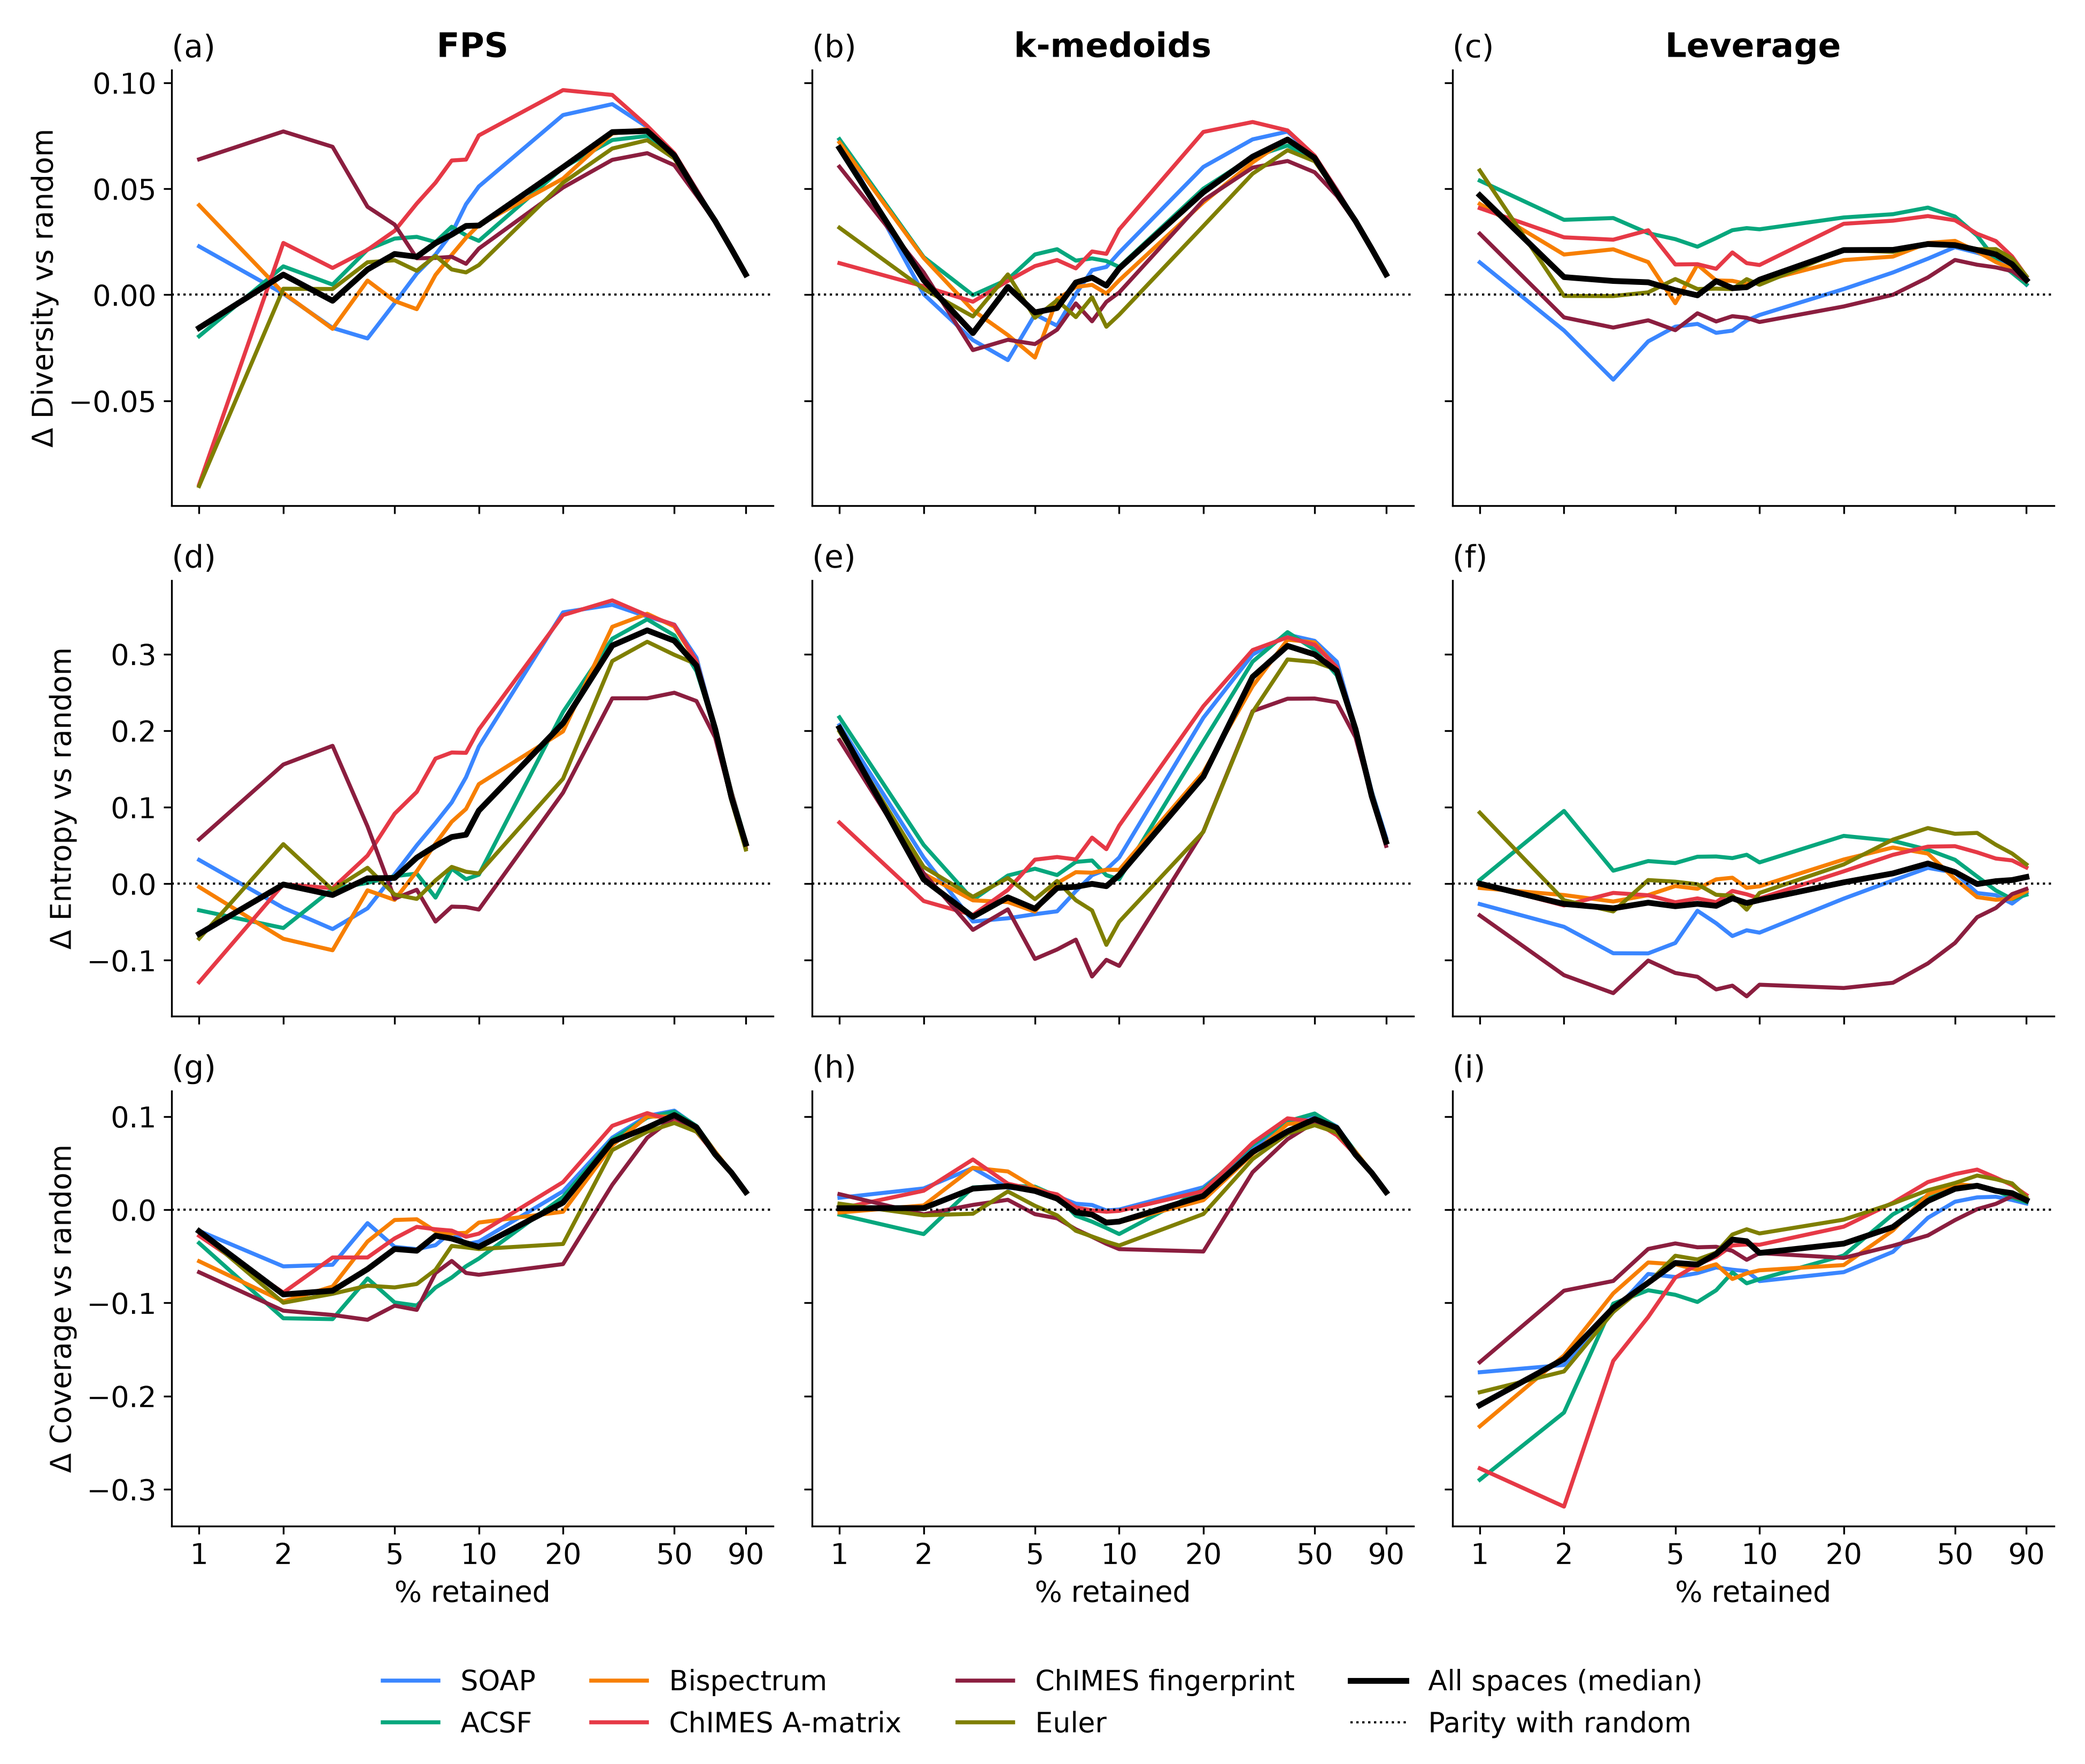
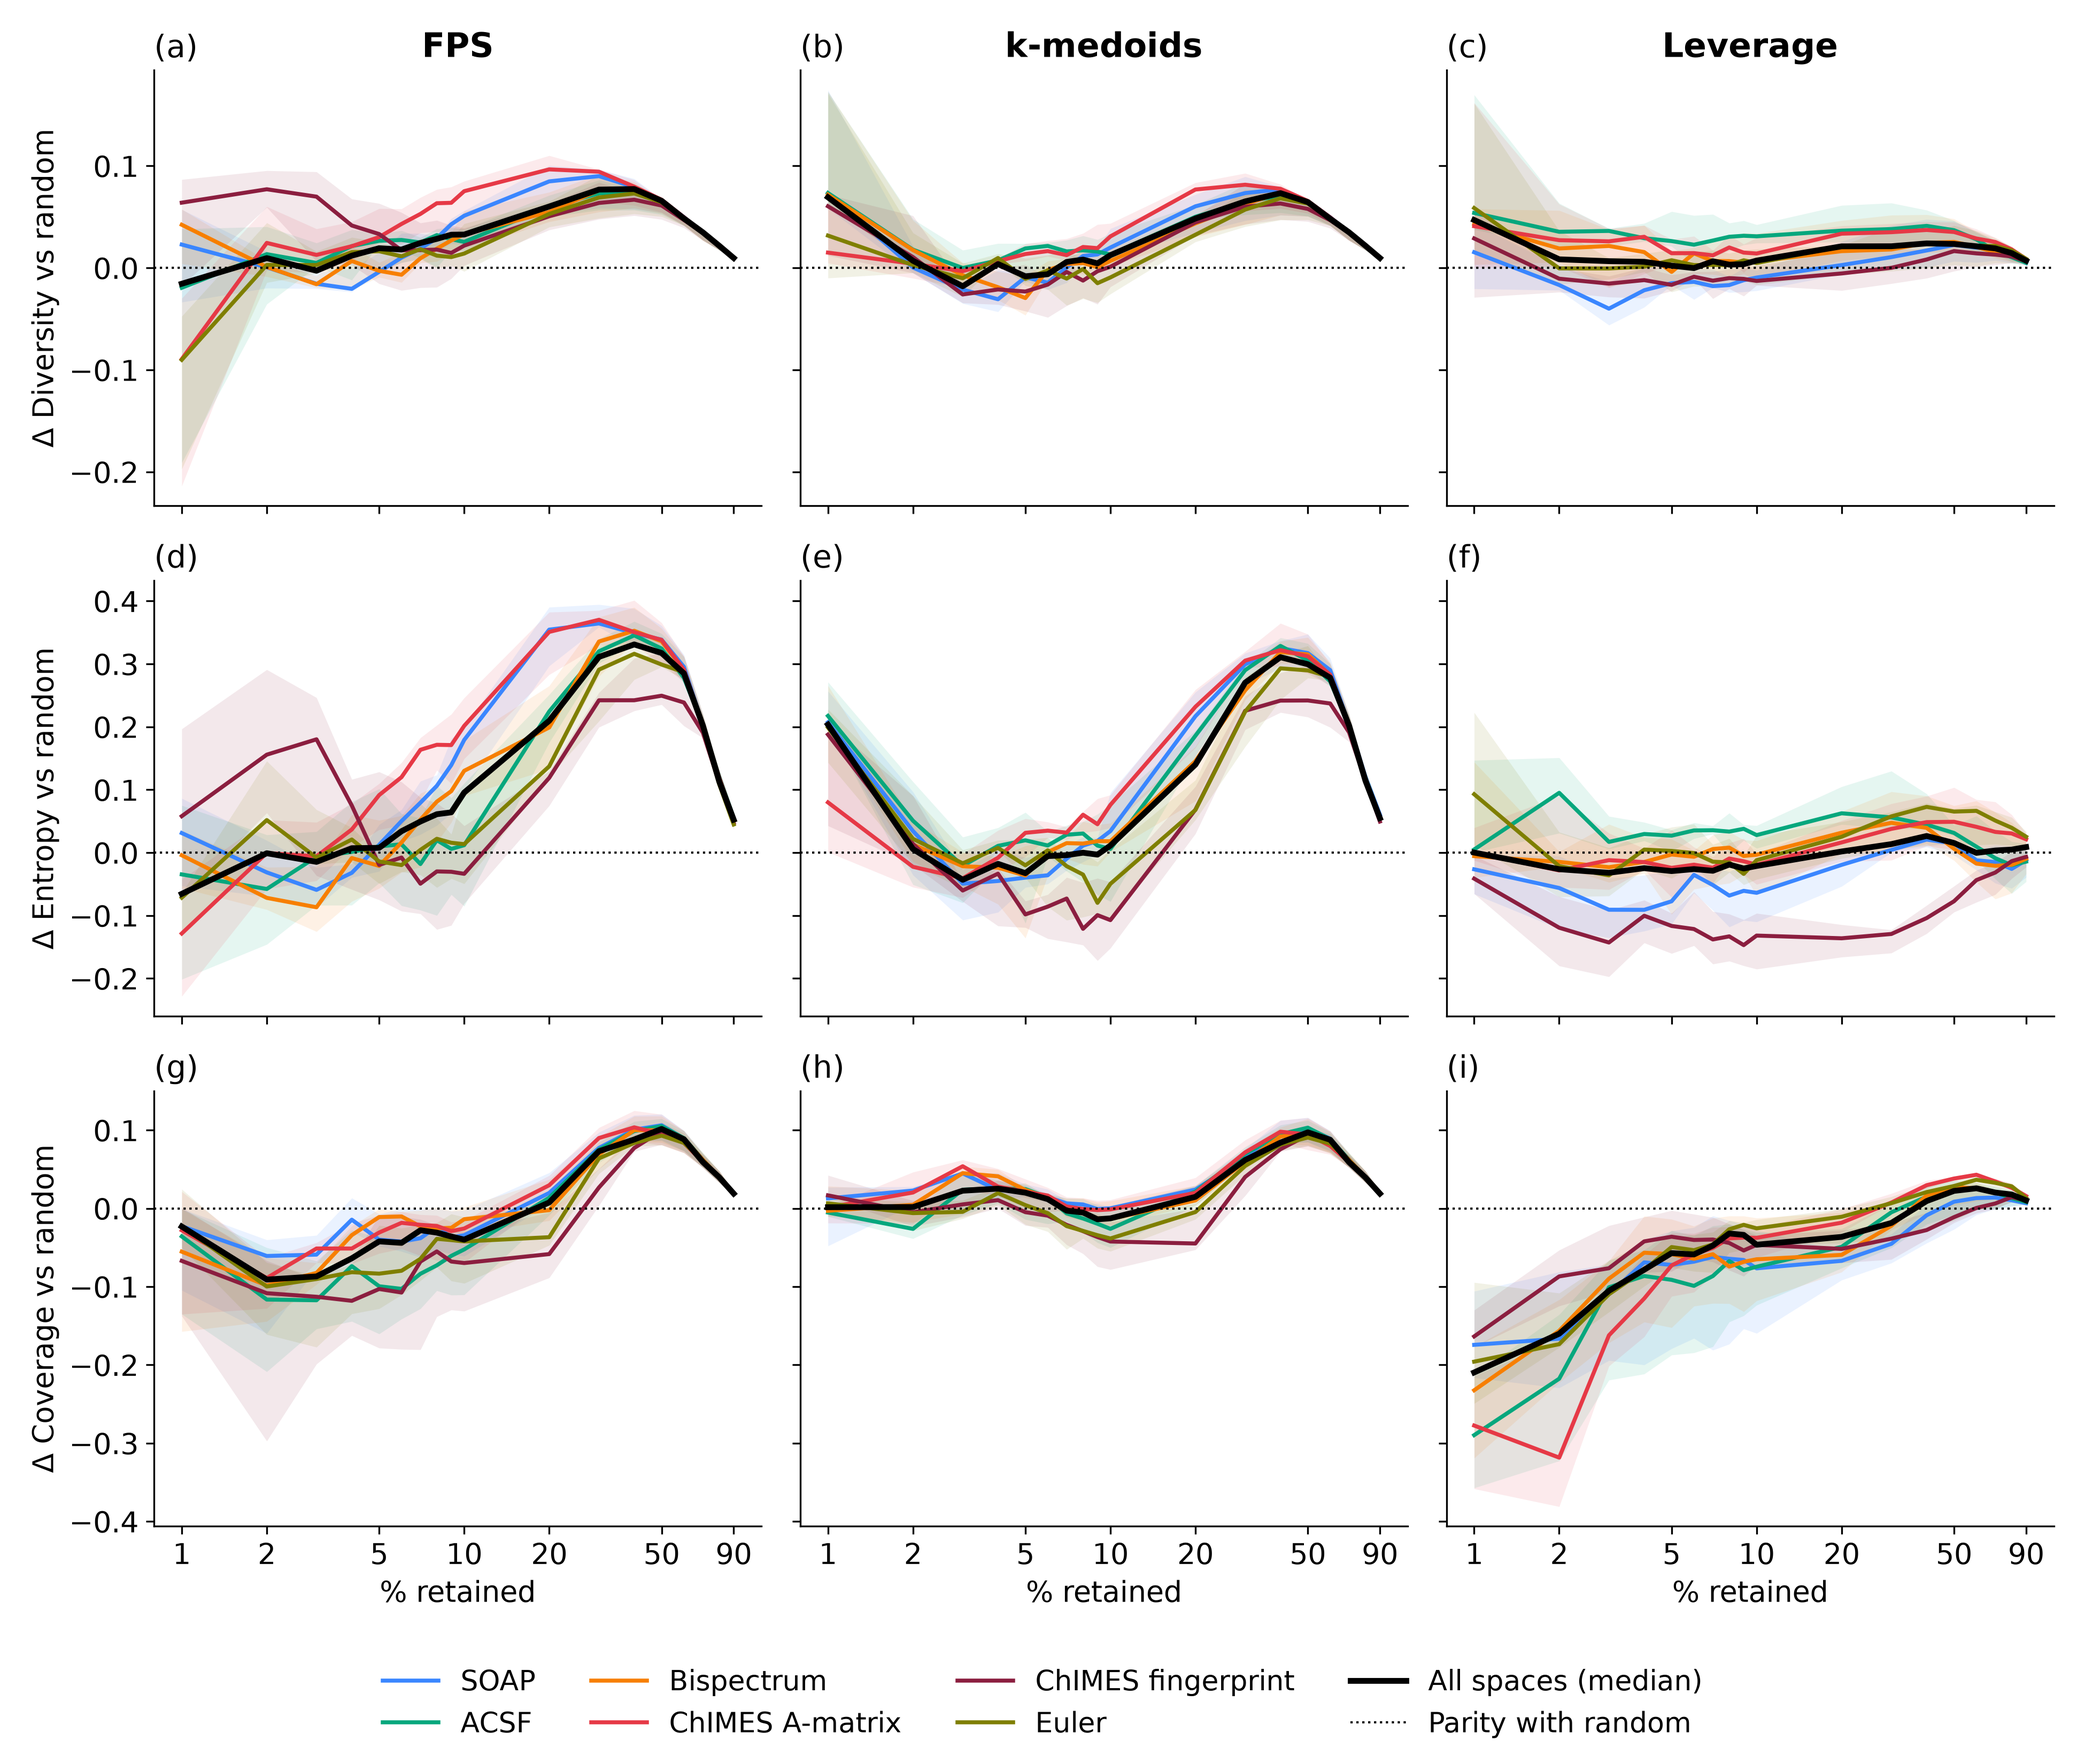
Interquartile bands over elements in the by-latent-space information figure

diff --git a/plotting/fig_information_by_space.py b/plotting/fig_information_by_space.py
@@ -7,8 +7,9 @@ difference from random subsets of the same size. Columns: FPS, k-medoids, levera
 For one element, latent space and retention, the difference is the median over the 25
 replicates of the sampler minus the median over the 25 random replicates (the
 definition that reproduces the published figure exactly). Coloured lines are the median
-of that difference over the six elements for each latent space; the black line is the
-median over all 36 element / latent-space combinations, i.e. the published curve.
+of that difference over the six elements for each latent space, with bands spanning the
+interquartile range over the elements; the black line is the median over all 36 element /
+latent-space combinations, i.e. the published curve (whose IQR band is in fig_information).
 
     python plotting/fig_information_by_space.py   # -> figures/information/fig_information_by_space.{pdf,png}
 """
@@ -57,8 +58,10 @@ def main():
             ax = axes[r, c]
             sub = D[D.sampler == s]
             for sp, label, col in SPACES:
-                g = sub[sub.space == sp].groupby("percent")[m].median()
-                ax.plot(g.index, g.values, color=col, lw=1.8, label=label)
+                g = sub[sub.space == sp].groupby("percent")[m]
+                q25, q75 = g.quantile(0.25), g.quantile(0.75)
+                ax.fill_between(q25.index, q25.values, q75.values, color=col, alpha=0.10, lw=0)
+                ax.plot(g.median().index, g.median().values, color=col, lw=1.8, label=label)
             pooled = sub.groupby("percent")[m].median()
             ax.plot(pooled.index, pooled.values, color="black", lw=2.6, label="All spaces (median)")
             ax.axhline(0, color="black", ls=":", lw=1.0)
